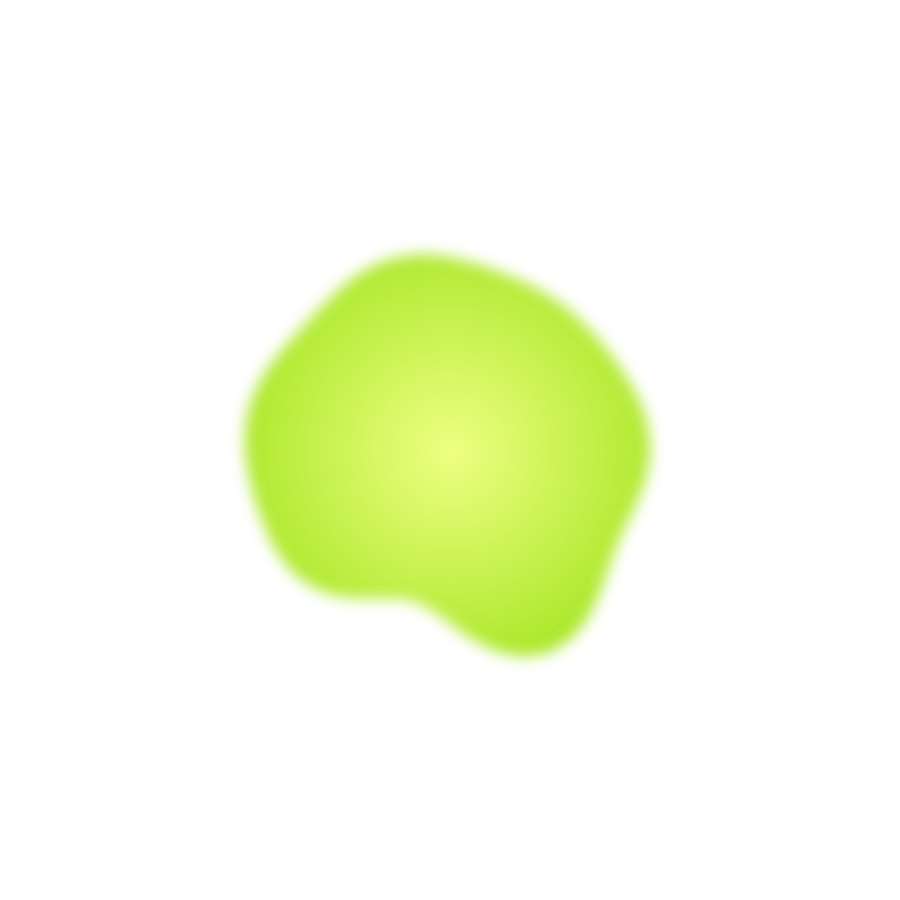
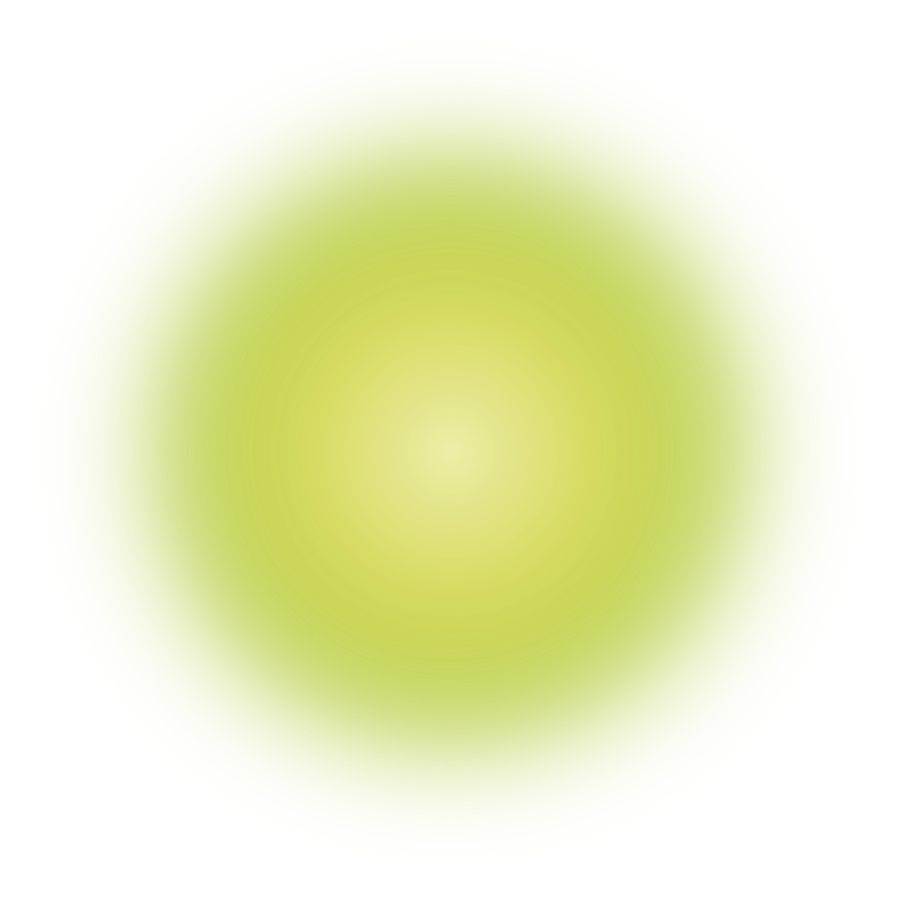
Look: the orb redrawn after the classic dashboard's
- The orb is a soft, solid, glossy sphere (lime rim, creamy yellow heart, lit from the
  top left, a pale halo and a gleam), drawn with the original dashboard's textures as
  the reference, instead of plasma blobs in a glass ball. The layers the theme turns
  are drawn the same all round; the light is in the layer that stays still.
- The wall's lines are thicker and plain where they meet (no beads), like the
  dashboard's cell wall; one faint orbit instead of two.

diff --git a/components/look/tools/art.py b/components/look/tools/art.py
@@ -66,17 +66,12 @@ def mesh_tunnel(size, center, alpha, seed=7):
         phi += step
     reach = math.hypot(max(cx, w - cx), max(cy, h - cy))
     lines = Image.new("L", (w, h), 0); d = ImageDraw.Draw(lines)
-    dots = Image.new("L", (w, h), 0); dd = ImageDraw.Draw(dots)
     for (x, y), poly in zip(sites, voronoi_cells(sites, (-200, -200, w + 200, h + 200))):
         if len(poly) < 3:
             continue
         near = min(1.0, math.hypot(x - cx, y - cy) / reach)                    # 0 straight ahead, 1 at the edge
         level = int(255 * (0.18 + 0.82 * near ** 1.3))
-        d.line(poly + [poly[0]], fill=level, width=max(2, int((1.2 + 3.2 * near) * s)), joint="curve")
-        for px, py in poly:                                                     # a bead where cells meet
-            rr = (1.6 + 3.0 * near) * s
-            dd.ellipse((px - rr, py - rr, px + rr, py + rr), fill=level)
-    lines = ImageChops.lighter(lines, dots)
+        d.line(poly + [poly[0]], fill=level, width=max(3, int((2.2 + 4.5 * near) * s)), joint="curve")   # thick and even, like the classic wall
     small = lines.resize(size, Image.LANCZOS)
     layer = Image.new("RGBA", size, (0, 0, 0, 0))
     layer.alpha_composite(glow_of(small, (70, 230, 40), 6, 1.4 * alpha / 255))
@@ -98,39 +93,77 @@ background("bg_system.jpg", (520, 470), (18, 70, 8), (1, 7, 1), 900, (960, 540),
 background("bg_list.jpg", (960, 560), (14, 58, 8), (2, 14, 2), 1300, (960, 540), 120)
 
 # ------------------------------------------------------------------ plasma orb layers
-def blob(name, size, base, lumps, seed, inner, outer, alpha, blur):
-    s = 2; n = size * s; c = n / 2; rnd = random.Random(seed)
-    terms = [(k, rnd.uniform(0.02, lumps) / (1 + 0.35 * k), rnd.uniform(0, 6.283)) for k in range(2, 7)]
-    pts = []
-    for i in range(720):
-        t = i / 720 * 6.283185; r = base * n * (1 + sum(a * math.sin(k * t + ph) for k, a, ph in terms))
-        pts.append((c + r * math.cos(t), c + r * math.sin(t)))
-    m = Image.new("L", (n, n), 0); ImageDraw.Draw(m).polygon(pts, fill=255)
-    body = with_alpha(radial((n, n), (c, c), base * n * 1.25, inner, outer), m.filter(ImageFilter.GaussianBlur(blur * s)), alpha)
-    body.resize((size, size), Image.LANCZOS).save(f"{OUT}/{name}")
-blob("plasma_outer.png", 900, 0.300, 0.15, 11, (120, 230, 30), (30, 140, 10), 170, 16)
-blob("plasma_mid.png",   900, 0.265, 0.19, 23, (200, 250, 70), (90, 200, 10), 200, 10)
-blob("plasma_core.png",  900, 0.215, 0.14, 37, (238, 255, 130), (165, 230, 34), 255, 7)
-blob("plasma_spot.png",  900, 0.110, 0.30, 51, (252, 255, 195), (218, 250, 100), 150, 14)
+# A solid, glossy sphere in the manner of the classic dashboard's: lime at the rim, a creamy
+# yellow heart, soft edges, lit from the top left. The theme turns most of these layers all the
+# time, so those are drawn the same all the way round; the light and shade, which must stay
+# put, are all in shell.png, which does not turn.
+def sphere(name, size, radius, stops, alpha, soft):
+    """A disc whose colour runs through `stops` (fraction of the radius, colour) from the middle out."""
+    s = 2; n = size * s; c = n / 2; r = radius * n
+    dist = radial((n, n), (c, c), r, (0, 0, 0), (255, 255, 255)).convert("L")
+    ramp = []
+    for v in range(256):
+        f = v / 255
+        for (f0, c0), (f1, c1) in zip(stops, stops[1:]):
+            if f0 <= f <= f1:
+                k = (f - f0) / (f1 - f0 or 1); ramp.append(tuple(int(a + (b - a) * k) for a, b in zip(c0, c1))); break
+        else:
+            ramp.append(stops[-1][1])
+    colour = Image.merge("RGB", [dist.point([ramp[v][i] for v in range(256)]) for i in range(3)])
+    disc = Image.new("L", (n, n), 0); ImageDraw.Draw(disc).ellipse((c - r, c - r, c + r, c + r), fill=255)
+    edge = disc.filter(ImageFilter.GaussianBlur(soft * s))
+    with_alpha(colour, edge, alpha).resize((size, size), Image.LANCZOS).save(f"{OUT}/{name}")
+
+def swirl(name, size, radius, arms, alpha):
+    """Faint bevelled strokes curling inside the sphere (light on one side of each, shade on the
+    other), evenly spaced: the theme turns this layer slowly, so the sphere seems to move."""
+    s = 2; n = size * s; c = n / 2; r = radius * n
+    light = Image.new("L", (n, n), 0); dark = Image.new("L", (n, n), 0)
+    for k in range(arms):
+        base = k * 2 * math.pi / arms
+        pts = []
+        for i in range(60):
+            t = i / 59
+            a = base + t * 2.2; rr = r * (0.18 + 0.68 * t)
+            pts.append((c + rr * math.cos(a), c + rr * math.sin(a)))
+        ImageDraw.Draw(light).line(pts, fill=255, width=int(7 * s), joint="curve")
+        ImageDraw.Draw(dark).line([(x + 5 * s, y + 5 * s) for x, y in pts], fill=255, width=int(9 * s), joint="curve")
+    disc = Image.new("L", (n, n), 0); ImageDraw.Draw(disc).ellipse((c - r * 0.92, c - r * 0.92, c + r * 0.92, c + r * 0.92), fill=255)
+    disc = disc.filter(ImageFilter.GaussianBlur(20 * s))
+    im = Image.new("RGBA", (n, n), (0, 0, 0, 0))
+    im.alpha_composite(with_alpha(Image.new("RGB", (n, n), (30, 90, 10)), ImageChops.multiply(dark.filter(ImageFilter.GaussianBlur(4 * s)), disc), alpha))
+    im.alpha_composite(with_alpha(Image.new("RGB", (n, n), (240, 250, 190)), ImageChops.multiply(light.filter(ImageFilter.GaussianBlur(3 * s)), disc), alpha))
+    im.resize((size, size), Image.LANCZOS).save(f"{OUT}/{name}")
+
+sphere("plasma_outer.png", 900, 0.372, [(0.0, (150, 200, 40)), (0.70, (110, 175, 25)), (0.92, (60, 140, 18)), (1.0, (40, 110, 14))], 255, 9)
+swirl("plasma_mid.png", 900, 0.372, 3, 115)
+sphere("plasma_core.png", 900, 0.32, [(0.0, (236, 236, 160)), (0.45, (214, 218, 90)), (1.0, (170, 196, 34))], 235, 55)
+sphere("plasma_spot.png", 900, 0.12, [(0.0, (250, 252, 215)), (1.0, (225, 232, 140))], 120, 40)
 
 g = radial((1000, 1000), (500, 500), 500, (255, 255, 255), (0, 0, 0)).convert("L")
-with_alpha(Image.new("RGB", (1000, 1000), (130, 255, 40)), g.point(lambda v: int((v / 255) ** 1.6 * 210))).save(f"{OUT}/plasma_glow.png")
+with_alpha(Image.new("RGB", (1000, 1000), (110, 220, 40)), g.point(lambda v: int((v / 255) ** 2.2 * 150))).save(f"{OUT}/plasma_glow.png")
 g = radial((900, 900), (450, 450), 900 * 0.36, (255, 255, 255), (0, 0, 0)).convert("L")
 with_alpha(Image.new("RGB", (900, 900), (245, 255, 190)), g.point(lambda v: int((v / 255) ** 0.8 * 255))).save(f"{OUT}/plasma_flash.png")
 
 def shell(size=900, rr=0.372):
-    """Glass ball around the plasma: darker towards the rim, bright edge, soft highlights."""
+    """The light on the sphere, which stays put while the layers under it turn: greener and in
+    shade towards the top left, a creamy warmth low on the right, a pale halo all round the
+    edge, and a soft white gleam at the top left."""
     s = 2; n = size * s; c = n / 2; r = rr * n
     disc = Image.new("L", (n, n), 0); ImageDraw.Draw(disc).ellipse((c - r, c - r, c + r, c + r), fill=255)
-    limb = radial((n, n), (c, c), r, (0, 0, 0), (255, 255, 255)).convert("L").point(lambda v: int((v / 255) ** 3.2 * 215))
-    im = with_alpha(Image.new("RGB", (n, n), (8, 78, 8)), ImageChops.multiply(limb, disc))
-    edge = Image.new("L", (n, n), 0); ImageDraw.Draw(edge).ellipse((c - r, c - r, c + r, c + r), outline=255, width=4 * s)
-    im.alpha_composite(glow_of(edge, (150, 255, 90), 7 * s, 1.6)); im.alpha_composite(with_alpha(Image.new("RGB", (n, n), (200, 255, 150)), edge, 230))
-    hi = Image.new("L", (n, n), 0); hd = ImageDraw.Draw(hi)
-    hd.ellipse((c - r * 0.74, c - r * 0.86, c - r * 0.02, c - r * 0.38), fill=150)          # top-left highlight
-    hd.ellipse((c - r * 0.80, c - r * 0.70, c + r * 0.10, c - r * 0.20), fill=0)
-    hd.arc((c - r * 0.9, c - r * 0.9, c + r * 0.9, c + r * 0.9), 30, 75, fill=110, width=10 * s)   # bounce light, lower right
-    im.alpha_composite(with_alpha(Image.new("RGB", (n, n), (240, 255, 220)), hi.filter(ImageFilter.GaussianBlur(9 * s))))
+    disc = disc.filter(ImageFilter.GaussianBlur(4 * s))
+    im = Image.new("RGBA", (n, n), (0, 0, 0, 0))
+    shade = radial((n, n), (c - r * 0.75, c - r * 0.8), r * 1.6, (255, 255, 255), (0, 0, 0)).convert("L")
+    im.alpha_composite(with_alpha(Image.new("RGB", (n, n), (20, 120, 30)), ImageChops.multiply(shade.point(lambda v: int(v * 0.55)), disc)))
+    warm = radial((n, n), (c + r * 0.35, c + r * 0.45), r * 0.9, (255, 255, 255), (0, 0, 0)).convert("L")
+    im.alpha_composite(with_alpha(Image.new("RGB", (n, n), (225, 228, 110)), ImageChops.multiply(warm.point(lambda v: int(v * 0.5)), disc)))
+    ring = Image.new("L", (n, n), 0); ImageDraw.Draw(ring).ellipse((c - r, c - r, c + r, c + r), outline=255, width=int(14 * s))
+    im.alpha_composite(with_alpha(Image.new("RGB", (n, n), (225, 245, 210)), ring.filter(ImageFilter.GaussianBlur(10 * s)), 150))
+    gleam = Image.new("L", (n, n), 0); gd = ImageDraw.Draw(gleam)
+    gd.ellipse((c - r * 0.66, c - r * 0.74, c - r * 0.30, c - r * 0.48), fill=200)
+    im.alpha_composite(with_alpha(Image.new("RGB", (n, n), (255, 255, 250)), gleam.filter(ImageFilter.GaussianBlur(12 * s))))
+    dot = Image.new("L", (n, n), 0); ImageDraw.Draw(dot).ellipse((c - r * 0.58, c - r * 0.60, c - r * 0.50, c - r * 0.52), fill=255)
+    im.alpha_composite(with_alpha(Image.new("RGB", (n, n), (255, 255, 255)), dot.filter(ImageFilter.GaussianBlur(2 * s)), 230))
     im.resize((size, size), Image.LANCZOS).save(f"{OUT}/shell.png")
 shell()
 
@@ -157,7 +190,7 @@ def ribbons(name, count, radius, thickness, sweep, tilt, alpha, size=1000, wire=
         im.alpha_composite(one.rotate(k * 360 / count, resample=Image.BICUBIC, center=(c, c)))
     im.resize((size, size), Image.LANCZOS).save(f"{OUT}/{name}")
 ribbons("rings_a.png", 3, 0.45, 0.075, 0.42, 20, 120)                          # turns 120 degrees per move
-ribbons("rings_b.png", 2, 0.49, 0.012, 0.26, 62, 55, wire=True)              # turns 180: two thin orbits
+ribbons("rings_b.png", 2, 0.49, 0.012, 0.26, 62, 22, wire=True)              # turns 180: a faint thin orbit
 ribbons("rings_c.png", 2, 0.47, 0.010, 0.20, -28, 40, wire=True)             # turns 180
 
 # ------------------------------------------------------------------ angular glass shapes
